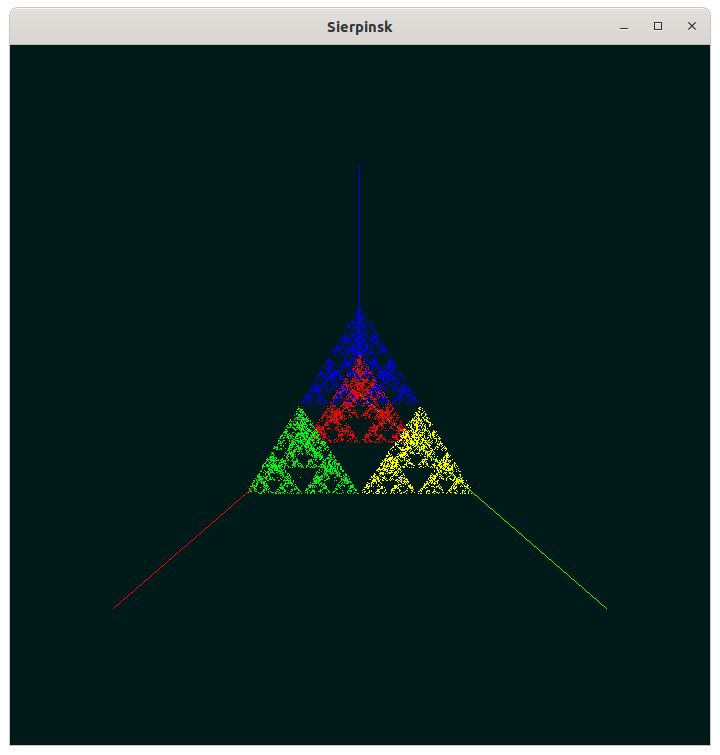
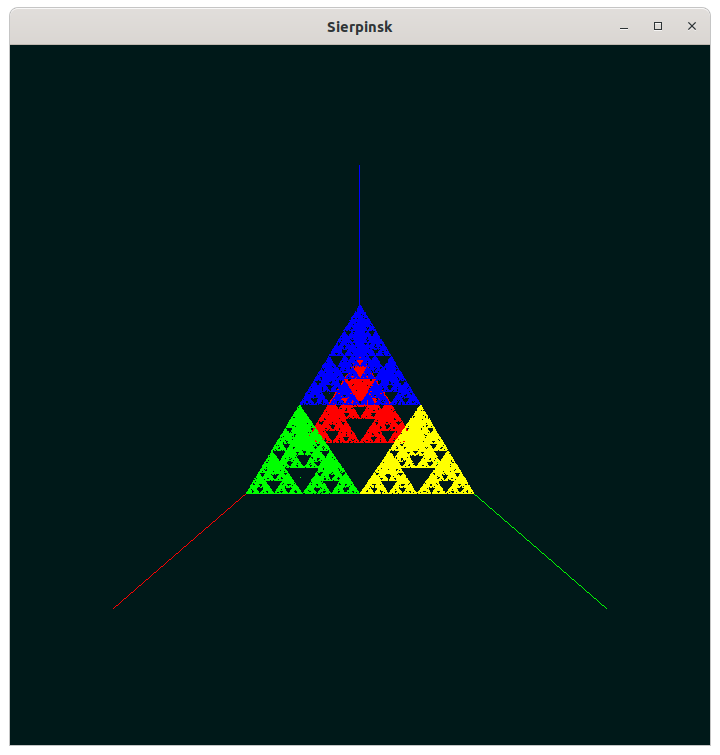
Increase the number of dots

Changed region(s): [[0.3361, 0.396, 0.6722, 0.6702]]

diff --git a/pirâmide/Fractal.cpp b/pirâmide/Fractal.cpp
@@ -58,22 +58,18 @@ GLfloat Cor[8][3]={
 const int MAX_PARAM=4;
 
 const int INC=0;
-const int RAZAO=1;
-const int POS=2;
-const int DIST=3;
+const int DIST=1;
+const int RAZAO=2;
+const int POS=3;
 
-GLfloat p[MAX_PARAM]={0.1,//INC
-                      0.5,//RAZAO
-                      1.0,//POS
-                      pr_cam_dist};//DIST. da camera
+const GLfloat reset[MAX_PARAM]={0.1,pr_cam_dist,0.5,1.0};
+GLfloat p[MAX_PARAM]={0.1,pr_cam_dist,0.5,1.0};
 
-const int MAX_SORT=10000; 
+const int MAX_SORT=100000; 
 const int MAX_VERT=4;
 int v_sort[MAX_SORT];
 
-const GLdouble TAM=3.0; //glutSolidCube(TAM);
-
-void Sorteia_pontos (){ 
+void Sorteia_pontos (){
  for (int c=0;c<MAX_SORT;c++)
   v_sort[c]=(int)rand()%MAX_VERT;
 }
@@ -136,11 +132,6 @@ void Exibe(){
  const GLdouble CAM_Y = pr_c_y + p[DIST] * sin(PHI) * sin(THETA);
  const GLdouble CAM_Z = pr_c_z + p[DIST] * cos(PHI);
  GLdouble prof=(pr_pers_prox+pr_pers_dist)/2;
- 
- /*GLfloat espec[]={0.5, 0.5, 0.5, 1.0};
- GLfloat emi[]={0.3, 0.6, 0.0, 0.0};
- GLfloat emi2[]={0.5, 0.0, 0.3, 0.0};
- GLfloat emi3[]={0.0, 0.0, 0.2, 0.0};*/
  
   glClear(GL_COLOR_BUFFER_BIT | GL_DEPTH_BUFFER_BIT ); 
   
@@ -217,8 +208,7 @@ Exemplos:
 }
 void Teclado(unsigned char key, int x, int y)
 {
- static int p_atual=DIST;
- const GLfloat reset[MAX_PARAM]={0.1,0.5,1.0,pr_cam_dist};
+ static int p_atual=DIST; 
  
  if (48<=key && key<=57){
   p_atual=(key-48)<MAX_PARAM?key-48:DIST;

diff --git a/pirâmide/TESTES~1_private.h b/pirâmide/TESTES~1_private.h
@@ -5,11 +5,11 @@
 #define TESTES~1_PRIVATE_H
 
 // VERSION DEFINITIONS
-#define VER_STRING	"0.1.2.900"
+#define VER_STRING	"0.1.2.908"
 #define VER_MAJOR	0
 #define VER_MINOR	1
 #define VER_RELEASE	2
-#define VER_BUILD	900
+#define VER_BUILD	908
 #define COMPANY_NAME	""
 #define FILE_VERSION	""
 #define FILE_DESCRIPTION	"Desenvolvido por Helder Geovane Gomes de Lima, utilizando Dev-C++ IDE"
